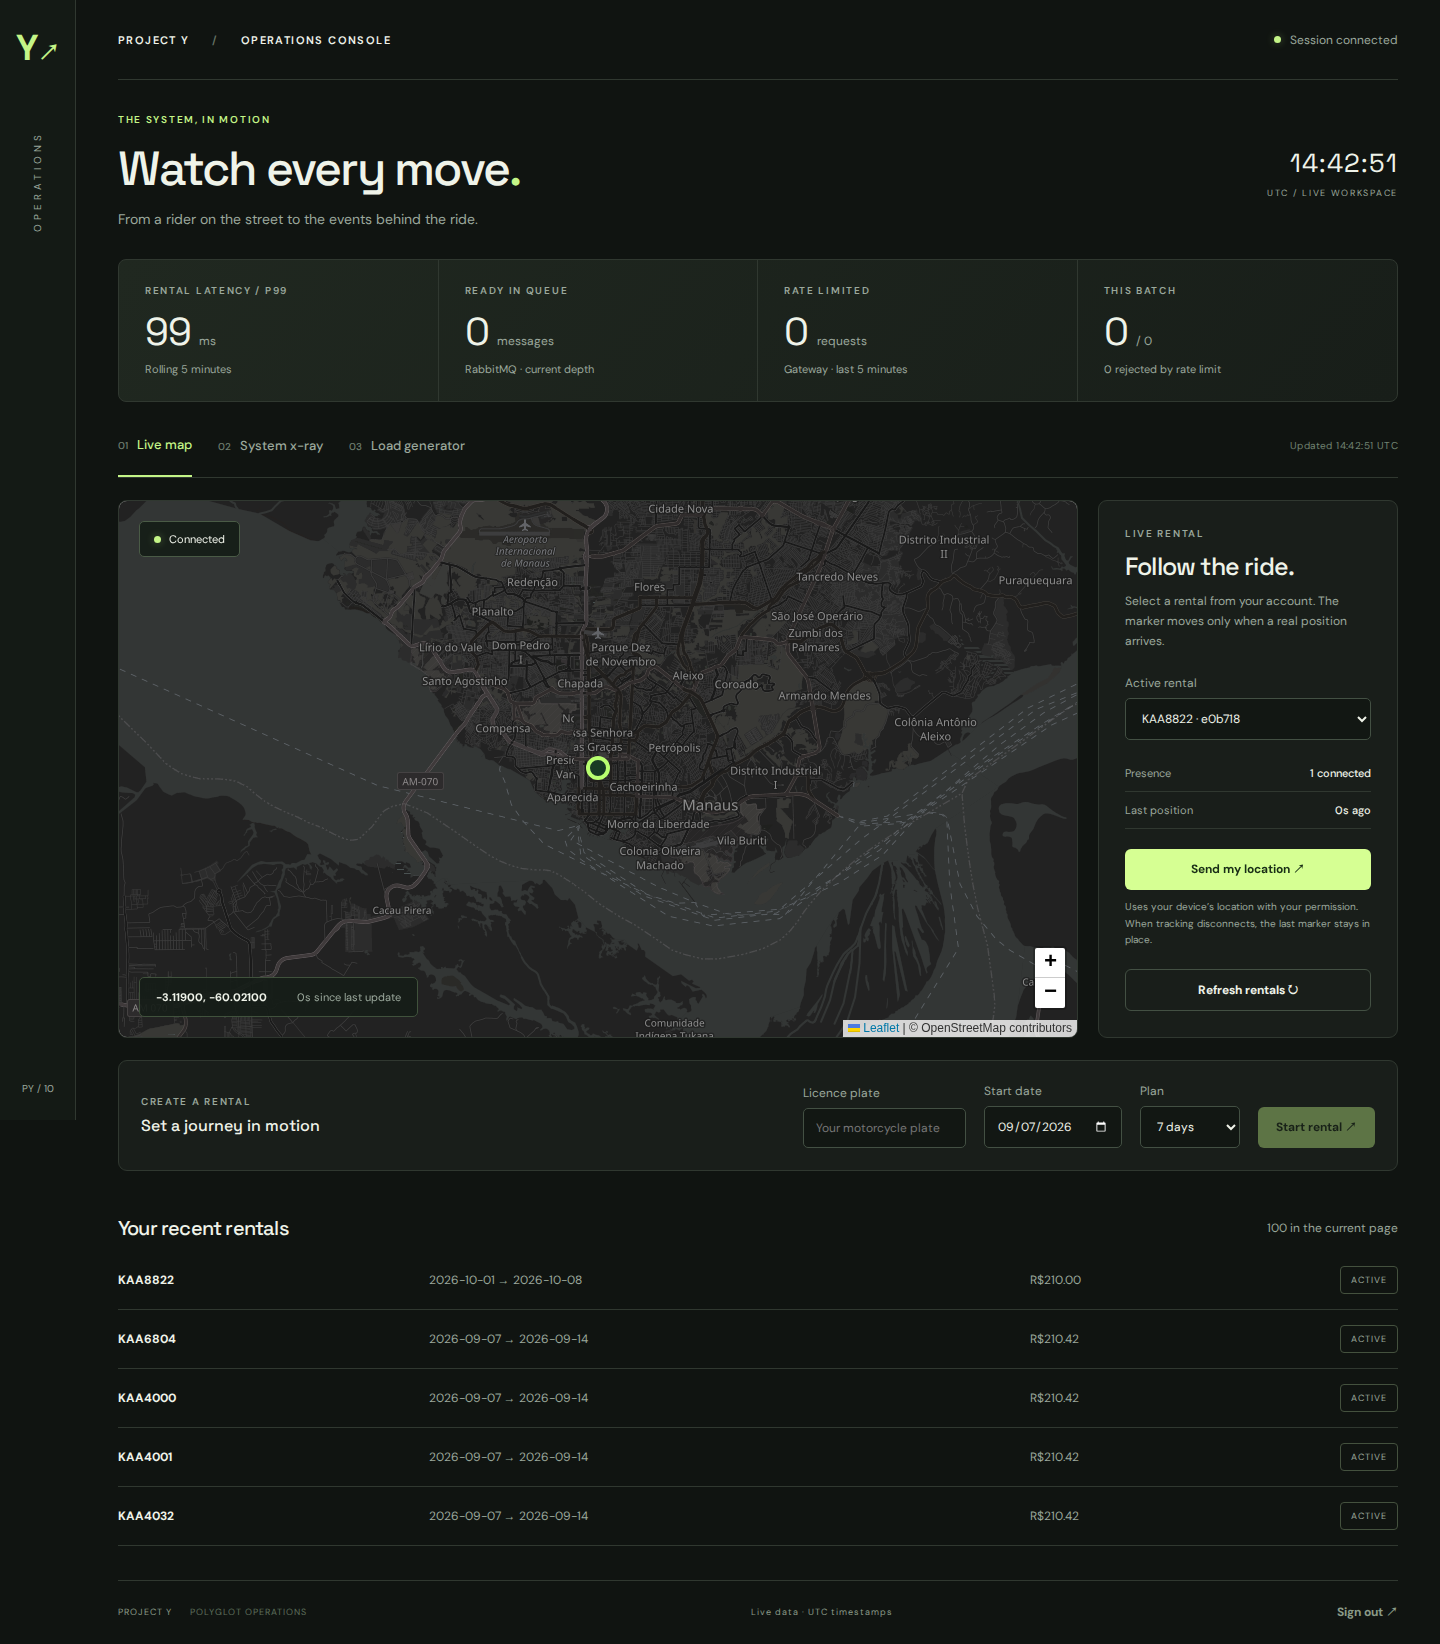
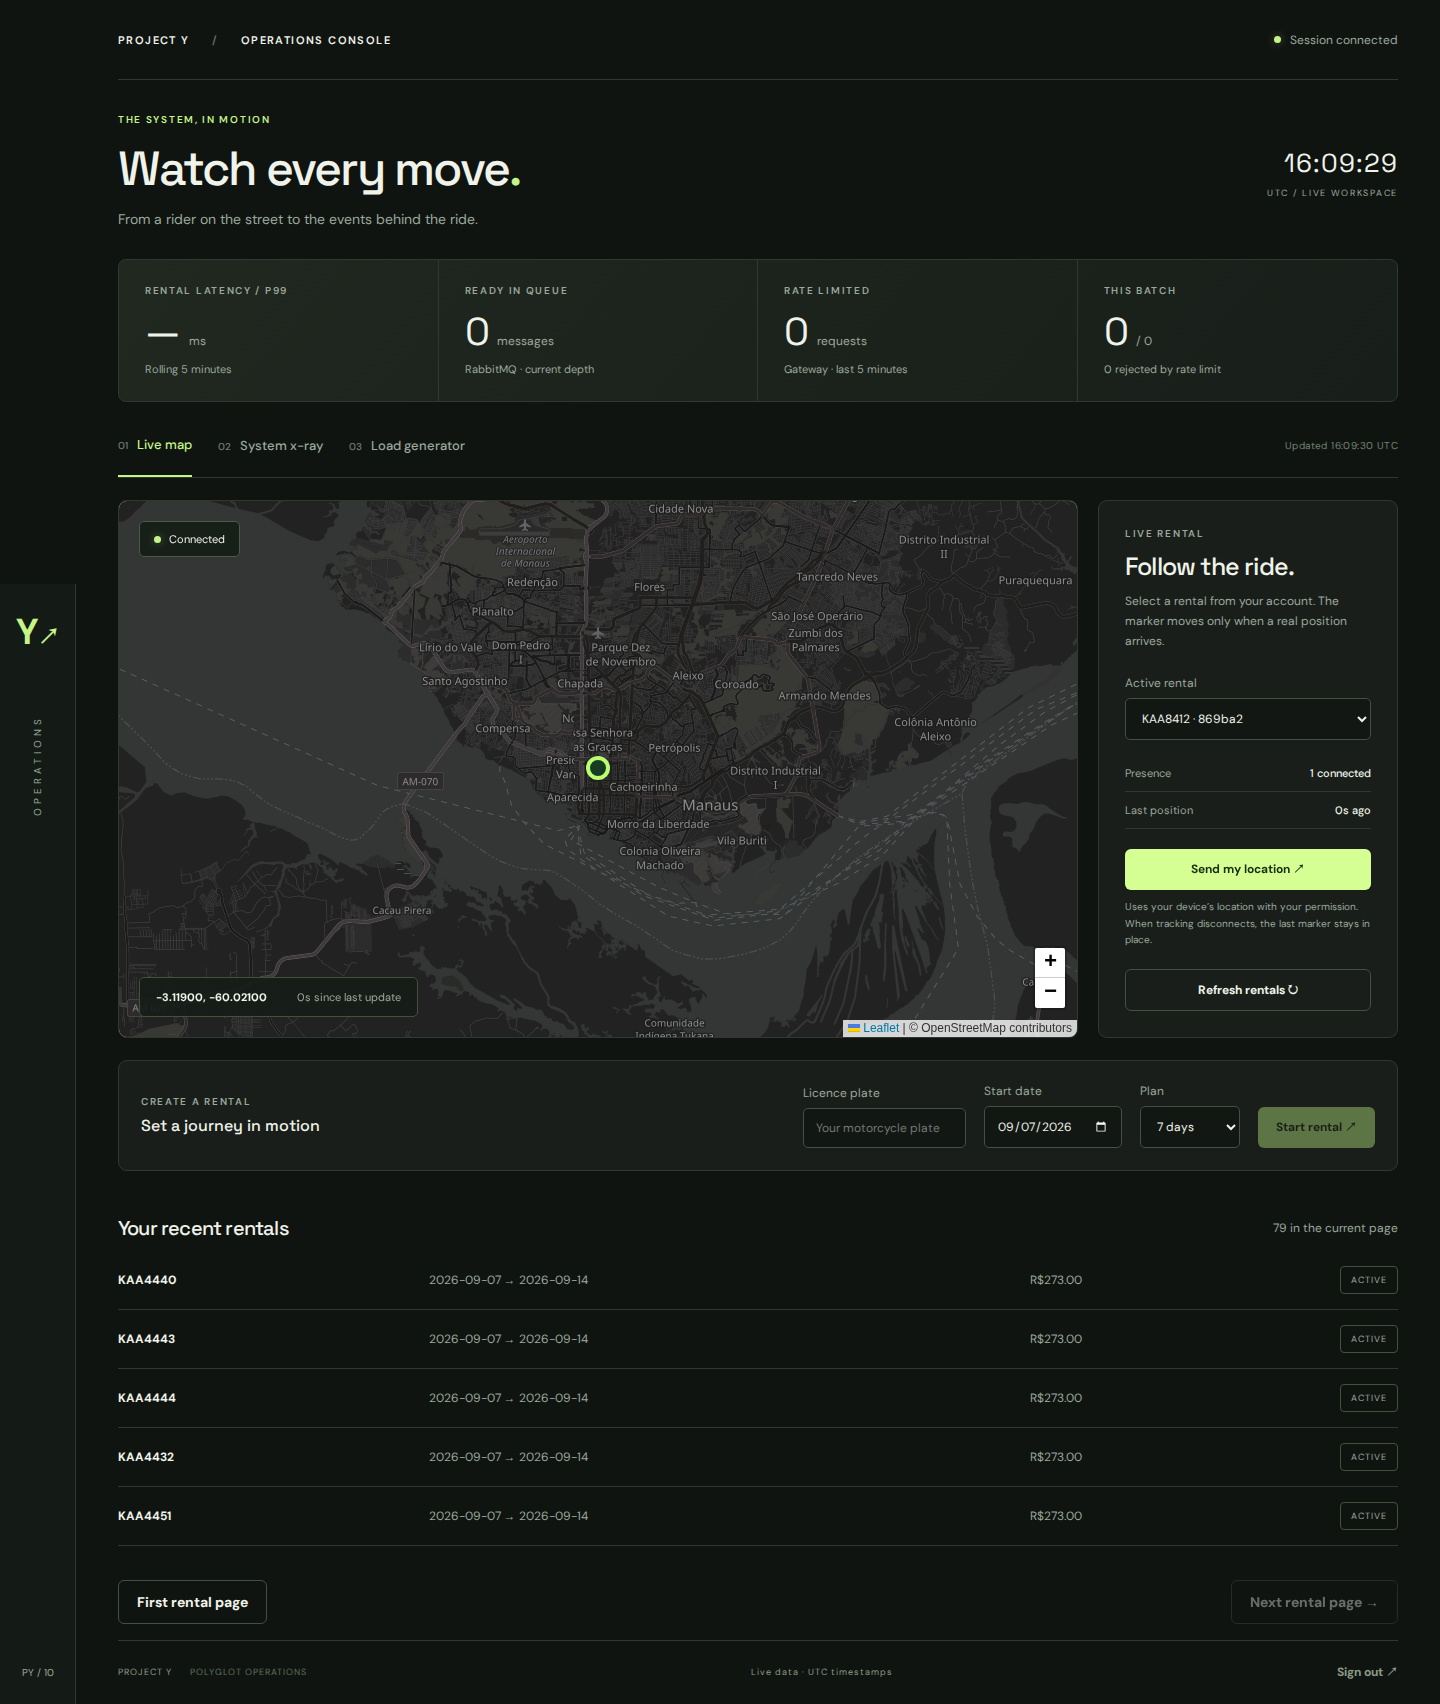
fix(console): paginate rental tracking and refresh acceptance evidence

diff --git a/services/console/app/page.tsx b/services/console/app/page.tsx
@@ -13,6 +13,8 @@ export default function Console() {
   const [user,setUser] = useState('');
   const [rentals,setRentals] = useState<Rental[]>([]);
   const [selected,setSelected] = useState('');
+  const [cursor,setCursor] = useState('');
+  const [nextCursor,setNextCursor] = useState<string|null>(null);
   const [position,setPosition] = useState<Position|null>(null);
   const [connection,setConnection] = useState('Disconnected');
   const [presence,setPresence] = useState(0);
@@ -31,10 +33,11 @@ export default function Console() {
   const [now,setNow] = useState(0);
   const socket = useRef<WebSocket|null>(null);
   const requestId = useRef(10);
-  async function refresh() {
-    const data = await json('/api/session');
+  async function refresh(pageCursor = '') {
+    const data = await json('/api/session'+(pageCursor?'?cursor='+encodeURIComponent(pageCursor):''));
+    setCursor(pageCursor); setNextCursor(data.rentals.nextCursor);
     setUser(data.userId); setRentals(data.rentals.items);
-    setSelected(current => current || data.rentals.items.find((r:Rental) => !r.actualEndDate)?.rentalId || '');
+    setSelected(current => data.rentals.items.some((r:Rental)=>r.rentalId===current) ? current : data.rentals.items.find((r:Rental) => !r.actualEndDate)?.rentalId || '');
   }
   useEffect(() => {
     setNow(Date.now());
@@ -57,7 +60,7 @@ export default function Console() {
     async function connect() {
       try {
         setConnection('Connecting');
-        const auth = await json('/api/tracking?rentalId='+encodeURIComponent(selected));
+        const auth = await json('/api/tracking?rentalId='+encodeURIComponent(selected)+'&cursor='+encodeURIComponent(cursor));
         if(cancelled) return;
         const ws = new WebSocket(auth.socketUrl+'?vsn=2.0.0&ticket='+encodeURIComponent(auth.ticket));
         socket.current=ws;
@@ -82,7 +85,7 @@ export default function Console() {
     }
     connect();
     return () => {cancelled=true; clearTimeout(retry); clearInterval(heartbeat); socket.current?.close()};
-  },[selected,user]);
+  },[selected,user,cursor]);
   useEffect(() => {
     if(!trace) return;
     let active=true; let rounds=0;
@@ -145,6 +148,7 @@ export default function Console() {
       <section className="action-bar panel"><div><div className="eyebrow">CREATE A RENTAL</div><strong>Set a journey in motion</strong></div><label>Licence plate<input value={plate} onChange={e=>setPlate(e.target.value.toUpperCase())} placeholder="Your motorcycle plate" maxLength={7}/></label><label>Start date<input type="date" value={start} onChange={e=>setStart(e.target.value)}/></label><label>Plan<select value={days} onChange={e=>setDays(Number(e.target.value))}>{[7,15,30,45].map(n=><option key={n} value={n}>{n} days</option>)}</select></label><button disabled={!user||busy||!plate} onClick={()=>run([plate])}>{busy?'Sending…':'Start rental ↗'}</button></section>
       {tab!=='Load generator' && attempts.length>0 && <section className="panel"><Results attempts={attempts} select={a=>{setTrace({...a});setTab('System x-ray')}}/></section>}
       {rentals.length>0 && <section className="rental-list"><div className="section-heading"><h2>Your recent rentals</h2><span className="caption">{rentals.length} in the current page</span></div>{rentals.slice(0,5).map(r=><div className="rental-row" key={r.rentalId}><strong>{r.motocycleLicencePlate}</strong><span>{r.startDate.slice(0,10)} → {r.predictedEndDate.slice(0,10)}</span><span>{money(r.originalTotalCost)}</span><span className="tag">{r.actualEndDate?'CLOSED':'ACTIVE'}</span></div>)}</section>}
+      {user && <div className="load-actions"><button className="secondary" disabled={!cursor} onClick={()=>refresh().catch(e=>setError(String(e)))}>First rental page</button><button className="secondary" disabled={!nextCursor} onClick={()=>refresh(nextCursor!).catch(e=>setError(String(e)))}>Next rental page →</button></div>}
       <footer><span>PROJECT Y <b>POLYGLOT OPERATIONS</b></span><span>Live data · UTC timestamps</span>{user&&<button className="text" onClick={async()=>{await fetch('/api/session',{method:'DELETE'});setUser('');setRentals([]);setSelected('');setMetrics(null)}}>Sign out ↗</button>}</footer>
     </main></div>;
 }

diff --git a/services/console/lib/server.ts b/services/console/lib/server.ts
@@ -16,9 +16,10 @@ export async function upstream(path: string, value: string, init: RequestInit = 
   return fetch(gateway + path, {...init, cache:'no-store', signal:AbortSignal.timeout(10000),
     headers:{'Authorization':'Bearer '+value, ...init.headers}});
 }
-export async function session(): Promise<{token:string; userId:string; rentals:RentalPage}> {
+export async function session(cursor = ''): Promise<{token:string; userId:string; rentals:RentalPage}> {
+  if(cursor.length > 2048) throw new Error('Invalid rental cursor');
   const value = await token();
-  const result = await upstream('/api/Rental/user?pageSize=100', value);
+  const result = await upstream('/api/Rental/user?pageSize=100'+(cursor?'&cursor='+encodeURIComponent(cursor):''), value);
   if (!result.ok) throw new Error(result.status === 429 ? 'Gateway rate limit; retry shortly.' : 'Session unavailable. Sign in again.');
   // Claims are read only after the gateway has validated signature, issuer, audience and revocation.
   const claims = JSON.parse(Buffer.from(value.split('.')[1], 'base64url').toString());

diff --git a/services/console/app/api/session/route.ts b/services/console/app/api/session/route.ts
@@ -11,5 +11,5 @@ export async function POST(request:Request) {
     return Response.json({signedIn:true});
   } catch(error) {return failure(error)}
 }
-export async function GET() {try {const data = await session(); return Response.json({userId:data.userId,rentals:data.rentals})} catch(error) {return failure(error)}}
+export async function GET(request:Request) {try {const data = await session(new URL(request.url).searchParams.get('cursor') ?? ''); return Response.json({userId:data.userId,rentals:data.rentals})} catch(error) {return failure(error)}}
 export async function DELETE(request:Request) {try {sameOrigin(request); (await cookies()).delete('projecty-session'); return Response.json({signedIn:false})} catch(error) {return failure(error)}}

diff --git a/services/console/app/api/tracking/route.ts b/services/console/app/api/tracking/route.ts
@@ -1,7 +1,7 @@
 import { failure, session, ticket } from '../../../lib/server';
 export async function GET(request:Request) {
   try {
-    const auth = await session();
+    const auth = await session(new URL(request.url).searchParams.get('cursor') ?? '');
     const id = new URL(request.url).searchParams.get('rentalId');
     const rental = auth.rentals.items.find(r => r.rentalId === id && r.userId === auth.userId && !r.actualEndDate);
     if (!rental) return Response.json({error:'Active rental not found in your current page'},{status:403});

diff --git a/docs/measurements/polyglot-validation.md b/docs/measurements/polyglot-validation.md
@@ -19,6 +19,8 @@ These probes are functional acceptance evidence, not a production capacity claim
 | Failure isolation | With risk and telemetry stopped, rental creation returned 200 in 21.39 ms and listing returned 200; both services restored |
 | Developer configuration | Core and full Tilt models evaluated successfully |
 | Delivery configuration | Actionlint passed; Prometheus accepted the score-staleness alert |
+| Runtime image security | Local Grype 0.118.0 scans of the final Alpine console, telemetry and risk-pricing images passed the Critical gate; no vulnerability suppressions added |
+| Rental pagination | API and browser acceptance selected and tracked a rental beyond the first 100 results |
 
 Machine-readable evidence: [API trace](polyglot-api.json),
 [browser checks](polyglot-browser.json), [failure isolation](polyglot-degradation.json).

diff --git a/docs/runbooks/polyglot-services.md b/docs/runbooks/polyglot-services.md
@@ -43,6 +43,11 @@ and disconnected. The capture report records successful checks and browser error
 
 ## Targeted checks
 
+Console, telemetry and risk-pricing use Alpine runtime images with package updates
+applied at build time. The Python image compiles librdkafka 2.15.0 from the official
+checksum-verified source because Alpine's packaged library is older than the client
+requires; temporary compiler dependencies are removed after installation.
+
 * Rust: `cargo test --manifest-path services/media-guard/Cargo.toml --locked`;
   `cargo clippy --manifest-path services/media-guard/Cargo.toml --locked --all-targets -- -D warnings`.
 * Elixir: `mix format --check-formatted` and `mix test` in services/telemetry.
